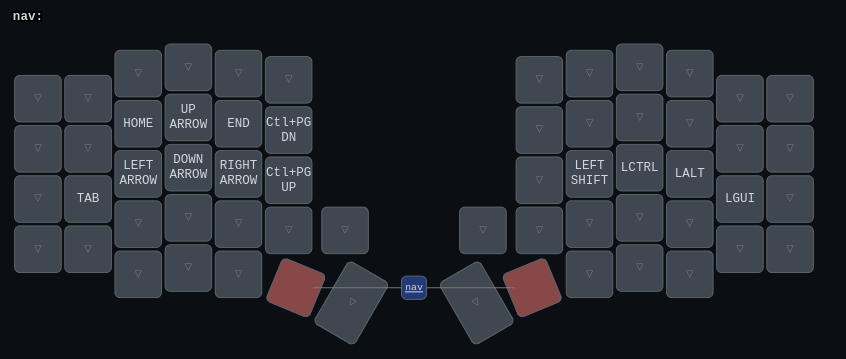
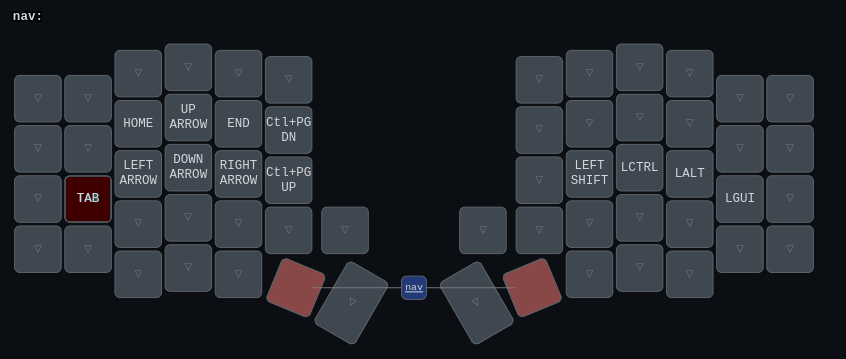
Docs: Color coated images

Changed region(s): [[0.0615, 0.4903, 0.1537, 0.6128]]

diff --git a/README.md b/README.md
@@ -10,6 +10,12 @@ This my custom ZMK keymap designed for the Sofle Split Keyboard. [It can also be
 ![nums](nums.png)
 ![gaming](gaming.png)
 
+### Color Legend
+- 🟩 Redundant (oplional) keys
+- 🟨 Optional (gaming-only) keys
+- 🟥 Controversial/optional/movable keys
+- 🟦 Swappable keys
+
 ## Idea
 
 The keymap is designed with the following goals in mind:
